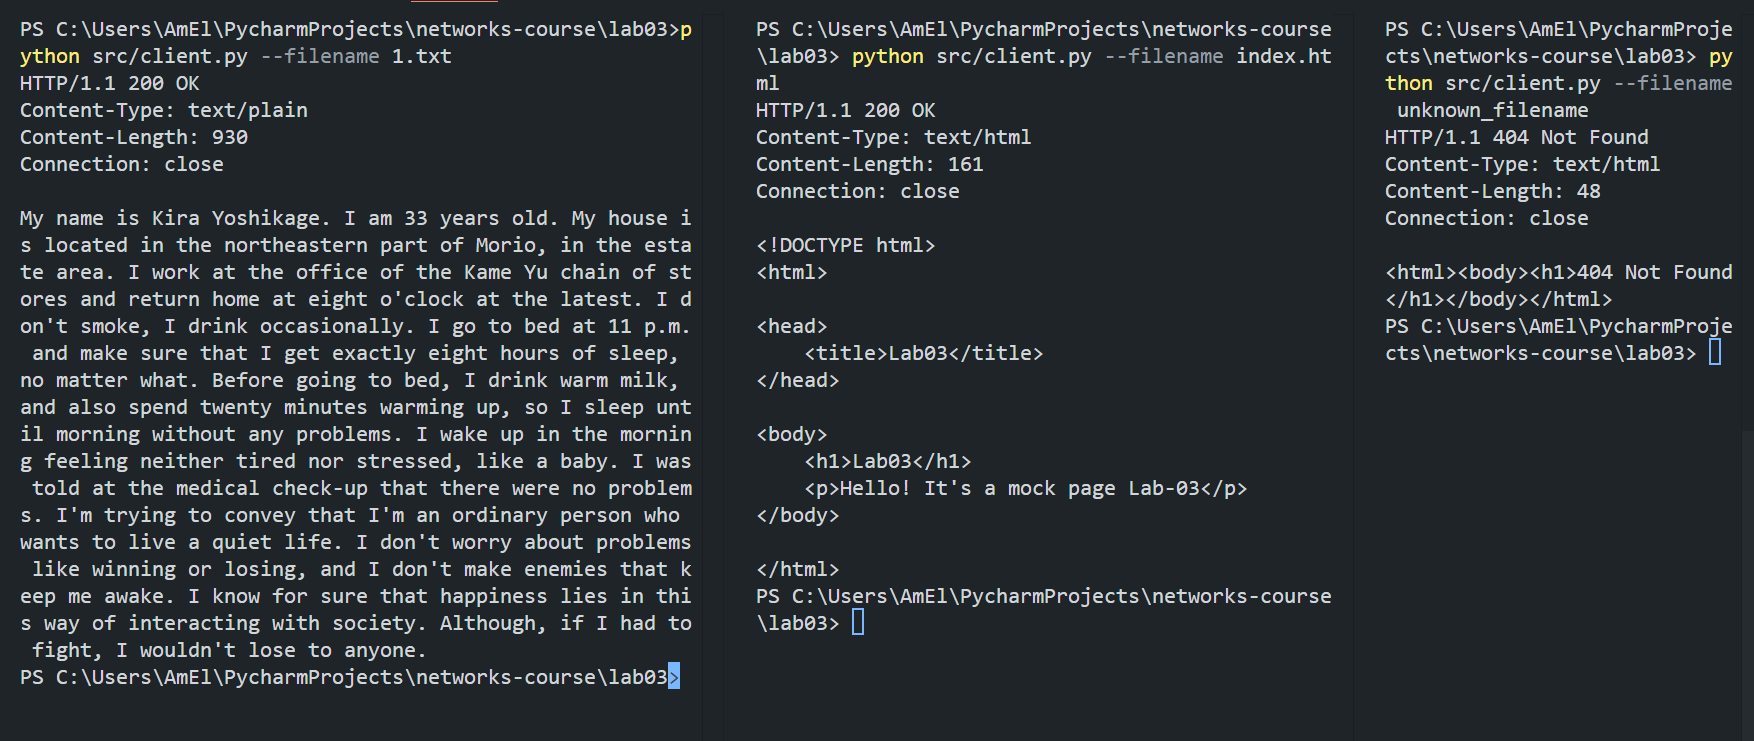
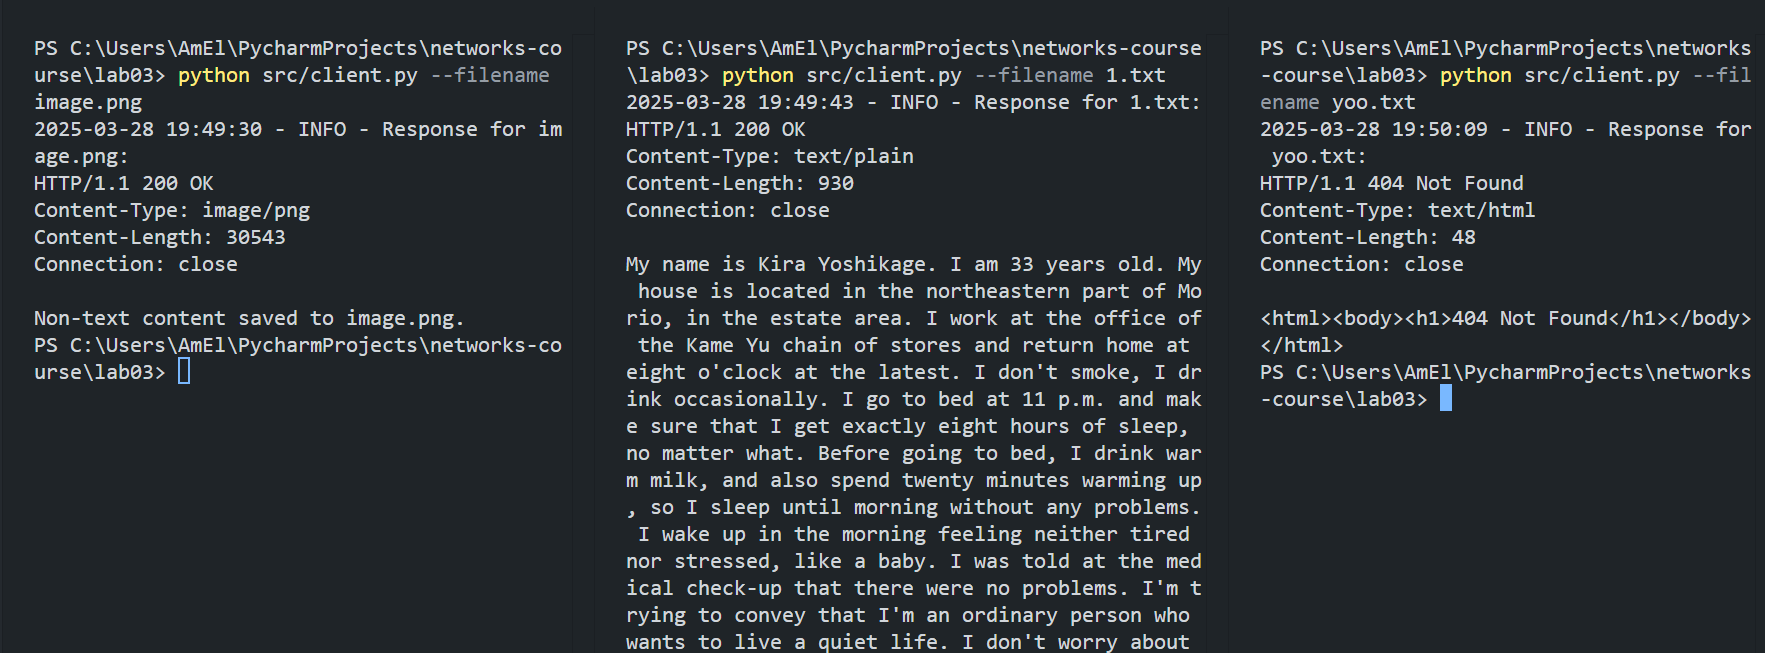
Cosmetic fixes & adjusted client a bit

Changed region(s): [[0.0, 0.0, 1.0, 1.0]]

diff --git a/lab03/src/server.py b/lab03/src/server.py
@@ -4,44 +4,47 @@ import argparse
 import logging
 from pathlib import Path
 
-DATA_DIR = "data"
-BUF_SIZE = 8192
-
-logging.basicConfig(
-    level=logging.INFO,
-    format='%(asctime)s - %(levelname)s - %(message)s',
-    datefmt='%Y-%m-%d %H:%M:%S'
-)
-logger = logging.getLogger(__name__)
+from const import DATA_DIR, BUF_SIZE
 
 
 def parse_arguments():
-    parser = argparse.ArgumentParser(description='Server for lab03')
-    parser.add_argument('--server_port', type=int, default=12345, help='Port to listen on')
-    parser.add_argument('--concurrency_level', type=int, default=1, help='Maximum number of concurrent connections')
-    parser.add_argument('--log_level', type=str, default='INFO', 
-                        choices=['DEBUG', 'INFO', 'WARNING', 'ERROR', 'CRITICAL'],
-                        help='Set the logging level')
+    parser = argparse.ArgumentParser(description="Server for lab03")
+    parser.add_argument(
+        "--server_port", type=int, default=12345, help="Port to listen on"
+    )
+    parser.add_argument(
+        "--concurrency_level",
+        type=int,
+        default=1,
+        help="Maximum number of concurrent connections",
+    )
+    parser.add_argument(
+        "--log_level",
+        type=str,
+        default="INFO",
+        choices=["DEBUG", "INFO", "WARNING", "ERROR", "CRITICAL"],
+        help="Set the logging level",
+    )
     return parser.parse_args()
 
 
 def get_content_type(file_extension):
     content_types = {
-        '.html': 'text/html',
-        '.htm': 'text/html',
-        '.css': 'text/css',
-        '.js': 'application/javascript',
-        '.jpg': 'image/jpeg',
-        '.jpeg': 'image/jpeg',
-        '.png': 'image/png',
-        '.gif': 'image/gif',
-        '.txt': 'text/plain',
-        '.json': 'application/json',
-        '.pdf': 'application/pdf',
-        '.xml': 'application/xml',
-        '.svg': 'image/svg+xml',
+        ".html": "text/html",
+        ".htm": "text/html",
+        ".css": "text/css",
+        ".js": "application/javascript",
+        ".jpg": "image/jpeg",
+        ".jpeg": "image/jpeg",
+        ".png": "image/png",
+        ".gif": "image/gif",
+        ".txt": "text/plain",
+        ".json": "application/json",
+        ".pdf": "application/pdf",
+        ".xml": "application/xml",
+        ".svg": "image/svg+xml",
     }
-    return content_types.get(file_extension, 'application/octet-stream')
+    return content_types.get(file_extension, "application/octet-stream")
 
 
 def get_response(request: str):
@@ -50,21 +53,23 @@ def get_response(request: str):
         if len(request_parts) < 2:
             logger.warning("Malformed request received")
             return build_error_response(400, "Bad Request")
-            
+
         method, path = request_parts[0], request_parts[1]
-        
+
         if method != "GET":
             return build_error_response(501, "Not Implemented")
-            
-        filename = path[1:] if path.startswith('/') else path
+
+        filename = path[1:] if path.startswith("/") else path
         filepath = Path.cwd() / DATA_DIR / filename
         if Path.exists(filepath) and Path.is_file(filepath):
-            with open(filepath, 'rb') as file:
+            with open(filepath, "rb") as file:
                 content = file.read()
-            header = (f"HTTP/1.1 200 OK\r\n"
-                     f"Content-Type: {get_content_type(filepath.suffix)}\r\n"
-                     f"Content-Length: {len(content)}\r\n"
-                     f"Connection: close\r\n\r\n")
+            header = (
+                f"HTTP/1.1 200 OK\r\n"
+                f"Content-Type: {get_content_type(filepath.suffix)}\r\n"
+                f"Content-Length: {len(content)}\r\n"
+                f"Connection: close\r\n\r\n"
+            )
             response = header.encode() + content
             logger.debug(f"File found: {filepath}, size: {len(content)} bytes")
             return response
@@ -78,16 +83,18 @@ def get_response(request: str):
 
 def build_error_response(status_code, message):
     content = f"<html><body><h1>{status_code} {message}</h1></body></html>".encode()
-    header = (f"HTTP/1.1 {status_code} {message}\r\n"
-             f"Content-Type: text/html\r\n"
-             f"Content-Length: {len(content)}\r\n"
-             f"Connection: close\r\n\r\n")
+    header = (
+        f"HTTP/1.1 {status_code} {message}\r\n"
+        f"Content-Type: text/html\r\n"
+        f"Content-Length: {len(content)}\r\n"
+        f"Connection: close\r\n\r\n"
+    )
     return header.encode() + content
 
 
 def handle_request(connection_socket: socket.socket):
     try:
-        request = connection_socket.recv(BUF_SIZE).decode('utf-8', errors='replace')
+        request = connection_socket.recv(BUF_SIZE).decode("utf-8", errors="replace")
         if not request:
             logger.debug("Empty request received")
             return
@@ -97,14 +104,17 @@ def handle_request(connection_socket: socket.socket):
     except Exception as e:
         logger.error(f"Error handling request: {e}", exc_info=True)
 
+
 def client_handler(connection_socket, addr, connection_semaphore):
     try:
         # connection_socket.settimeout(5)
         logger.info(f"[{addr[0]}:{addr[1]}] Handling connection...")
-        
+
         try:
             handle_request(connection_socket)
-            logger.info(f"[{addr[0]}:{addr[1]}] Request has been processed. Closing connection...")
+            logger.info(
+                f"[{addr[0]}:{addr[1]}] Request has been processed. Closing connection..."
+            )
         except Exception as e:
             logger.error(f"Error handling connection: {e}", exc_info=True)
         finally:
@@ -116,34 +126,37 @@ def client_handler(connection_socket, addr, connection_semaphore):
     finally:
         connection_semaphore.release()
 
+
 def run_server(port: int, concurrency_level: int):
     try:
         connection_semaphore = threading.Semaphore(concurrency_level)
-        
+
         server_socket = socket.socket(socket.AF_INET, socket.SOCK_STREAM)
         server_socket.setsockopt(socket.SOL_SOCKET, socket.SO_REUSEADDR, 1)
-        server_socket.bind(('', port))  
+        server_socket.bind(("", port))
         server_socket.listen(concurrency_level)
-        
-        logger.info(f"Server started on port {port} with concurrency level {concurrency_level}")
+
+        logger.info(
+            f"Server started on port {port} with concurrency level {concurrency_level}"
+        )
         logger.info(f"Serving files from directory: {Path.cwd() / DATA_DIR}")
-        
+
         while True:
             try:
+                connection_semaphore.acquire()
                 connection_socket, addr = server_socket.accept()
                 logger.info(f"[{addr[0]}:{addr[1]}] Connection established")
-                connection_semaphore.acquire()
-                
+
                 client_thread = threading.Thread(
                     target=client_handler,
-                    args=(connection_socket, addr, connection_semaphore)
+                    args=(connection_socket, addr, connection_semaphore),
                 )
                 client_thread.daemon = True
                 client_thread.start()
-                
+
             except Exception as e:
                 logger.error(f"Error accepting connection: {e}", exc_info=True)
-                
+
     except KeyboardInterrupt:
         logger.info("Server stopped by user: KeyboardInterrupt")
     except Exception as e:
@@ -158,10 +171,18 @@ def run_server(port: int, concurrency_level: int):
 
 if __name__ == "__main__":
     args = parse_arguments()
+    logger = logging.getLogger(__name__)
+
+    logging.basicConfig(
+        level=logging.INFO,
+        format="%(asctime)s - %(levelname)s - %(message)s",
+        datefmt="%Y-%m-%d %H:%M:%S",
+    )
+
     print(f"Running with arguments: {args}")
 
     numeric_level = getattr(logging, args.log_level.upper(), None)
     if isinstance(numeric_level, int):
         logger.setLevel(numeric_level)
-    
+
     run_server(args.server_port, args.concurrency_level)

diff --git a/lab03/src/client.py b/lab03/src/client.py
@@ -1,14 +1,15 @@
 import argparse
+import logging
 import socket
+from const import BUF_SIZE
 
-BUF_SIZE = 8192
 
 def parse_arguments():
-    parser = argparse.ArgumentParser(description='Client for lab03')
-    parser.add_argument('--server_host', help='Server host', default='localhost')
-    parser.add_argument('--server_port', type=int, help='Server port', default=12345)
-    parser.add_argument('--filename', help='Filename to request', default='index.html')
-    
+    parser = argparse.ArgumentParser(description="Client for lab03")
+    parser.add_argument("--server_host", help="Server host", default="localhost")
+    parser.add_argument("--server_port", type=int, help="Server port", default=12345)
+    parser.add_argument("--filename", help="Filename to request", default="index.html")
+
     return parser.parse_args()
 
 
@@ -19,11 +20,53 @@ def send_request(server_host, server_port, filename):
     request = f"GET /{filename} HTTP/1.1\r\nHost: {server_host}:{server_port}\r\n\r\n"
     client_socket.sendall(request.encode())
 
-    response = client_socket.recv(BUF_SIZE).decode()
-    print(response)
+    response_data = b""
+    while True:
+        chunk = client_socket.recv(BUF_SIZE)
+        if not chunk:
+            break
+        response_data += chunk
 
     client_socket.close()
+    process_response(response_data, filename)
 
-if __name__ == '__main__':
+
+def process_response(response_data, filename):
+    try:
+        header_end = response_data.find(b"\r\n\r\n")
+        if header_end == -1:
+            logging.error("No headers found in response.")
+            return
+
+        headers_raw = response_data[:header_end].decode()
+        body = response_data[header_end + 4 :]
+
+        headers = headers_raw.split("\r\n")
+        content_type = next(
+            (h for h in headers if h.lower().startswith("content-type:")), ""
+        )
+
+        if "text/" in content_type:
+            text = body.decode(errors="replace")
+            logging.info(f"Response for {filename}:\n{headers_raw}\n\n{text}")
+        else:
+            with open(filename, "wb") as file:
+                file.write(body)
+            logging.info(
+                f"Response for {filename}:\n{headers_raw}\n\nNon-text content saved to {filename}."
+            )
+    except Exception as e:
+        logging.error(f"Failed to process response: {e}")
+
+
+if __name__ == "__main__":
     args = parse_arguments()
+
+    logger = logging.getLogger(__name__)
+    logging.basicConfig(
+        level=logging.INFO,
+        format="%(asctime)s - %(levelname)s - %(message)s",
+        datefmt="%Y-%m-%d %H:%M:%S",
+    )
+
     send_request(args.server_host, args.server_port, args.filename)

diff --git a/lab03/src/const.py b/lab03/src/const.py
@@ -1,0 +1,2 @@
+DATA_DIR = "data"
+BUF_SIZE = 8192
